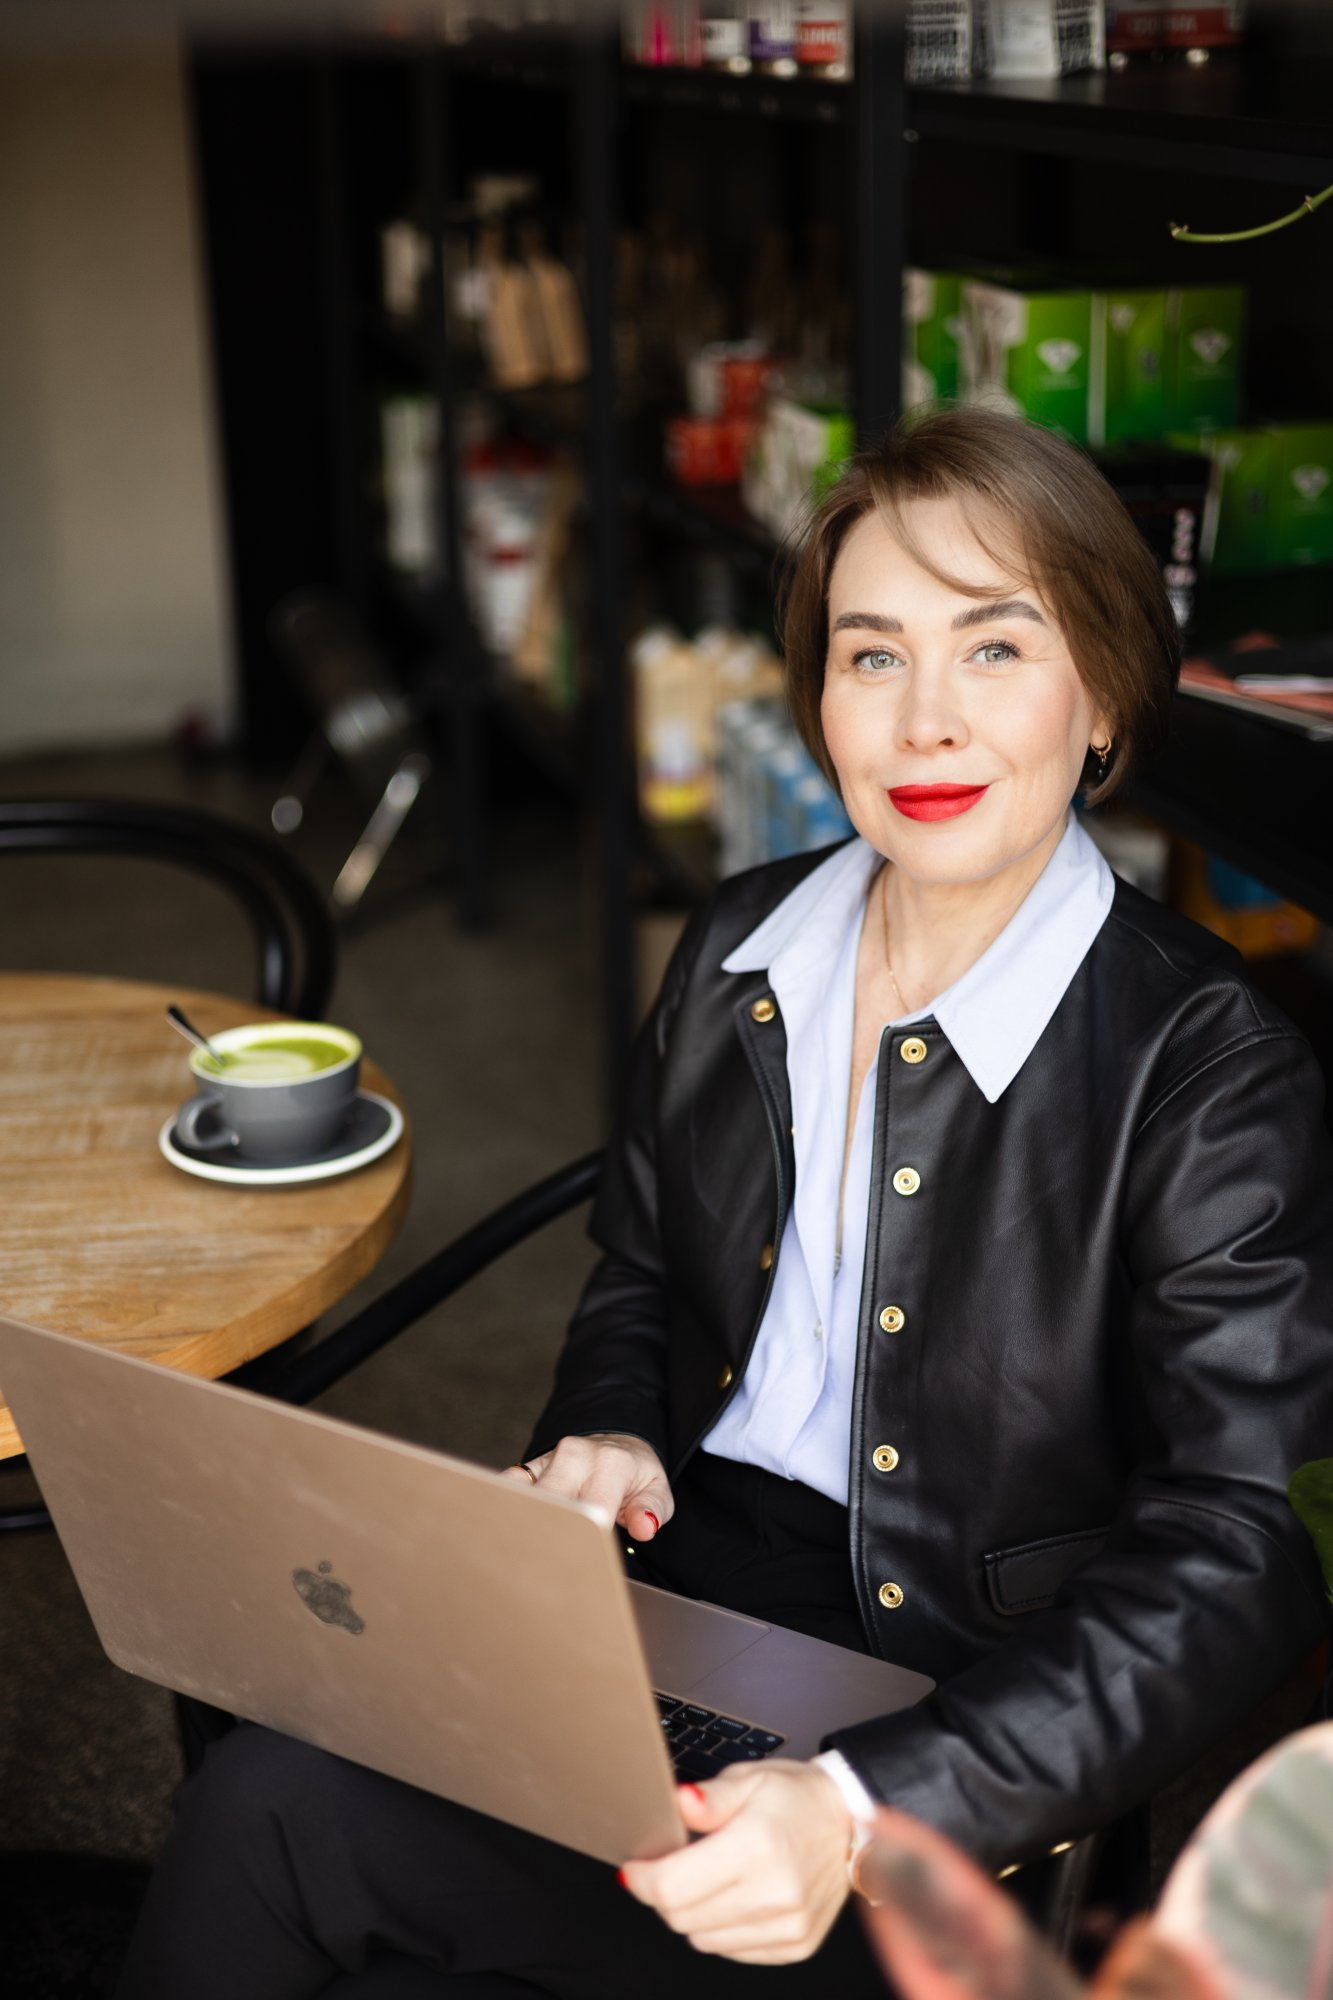
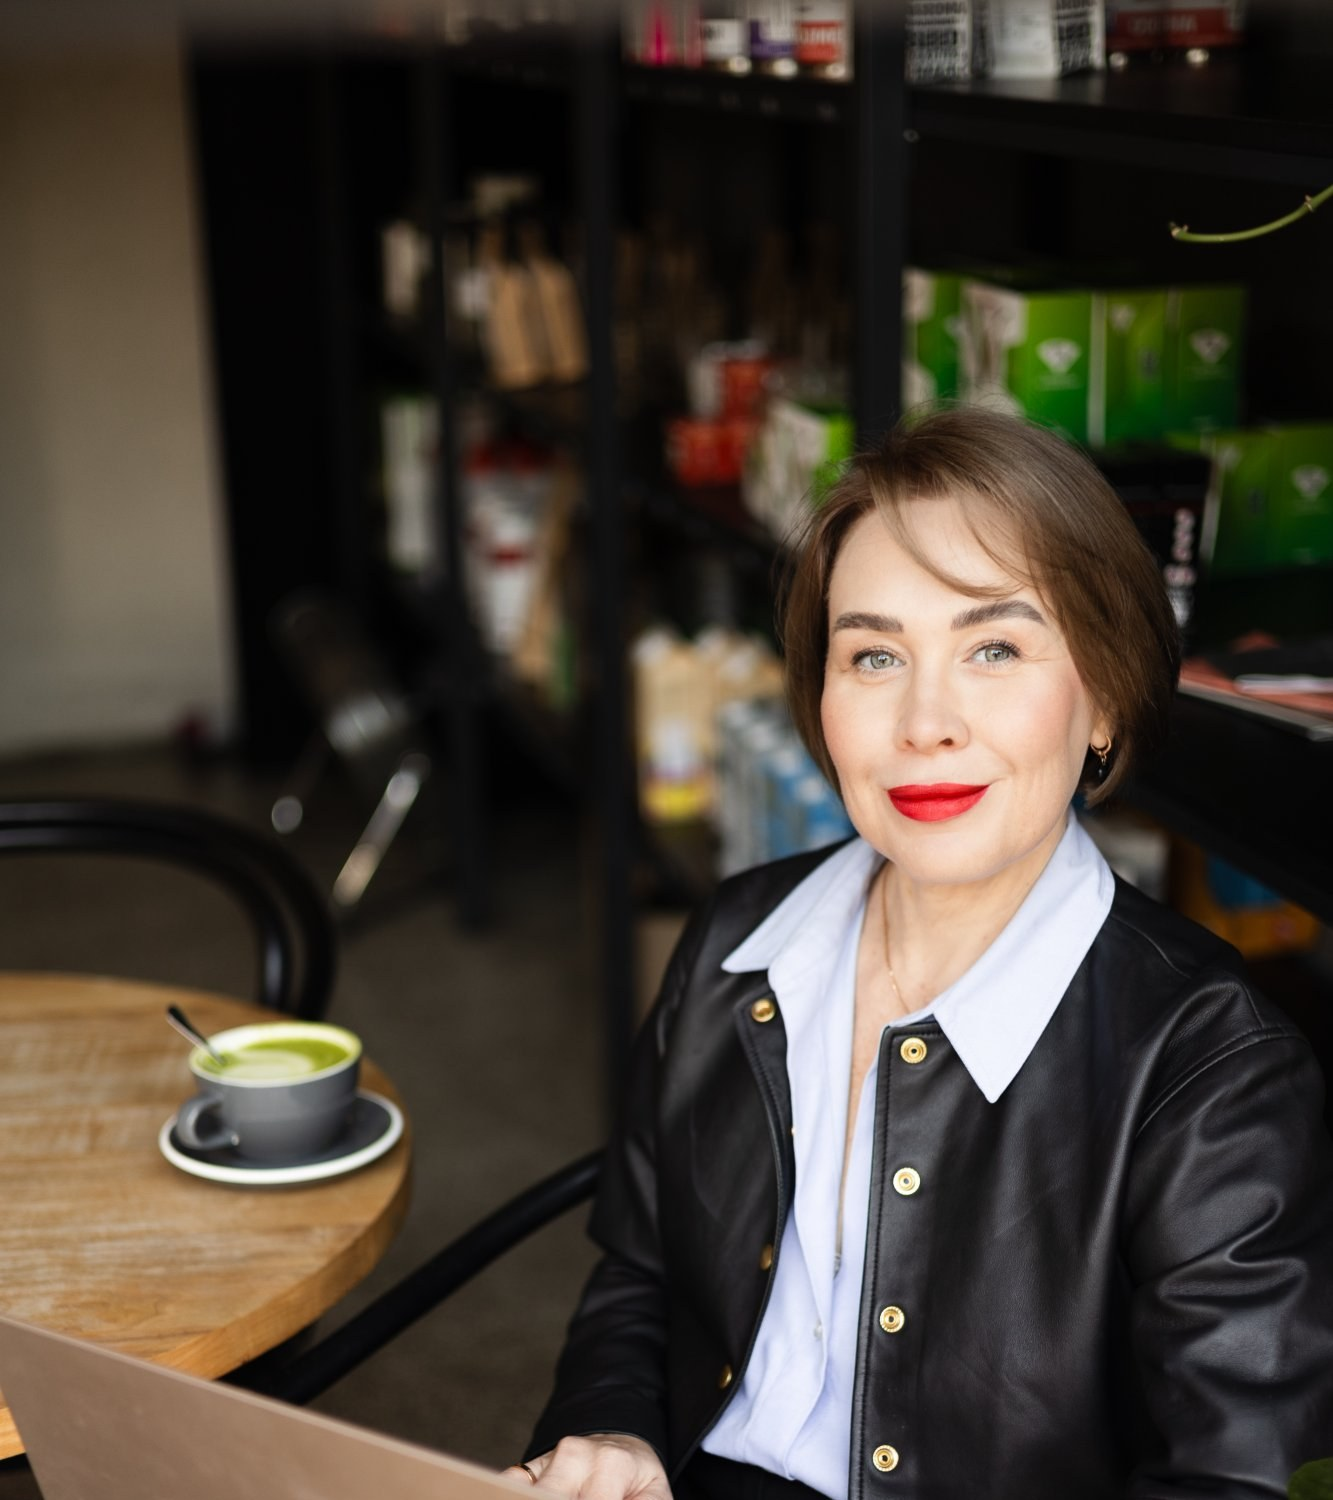
Add files via upload

diff --git a/index.html b/index.html
@@ -5,6 +5,9 @@
 <meta name="viewport" content="width=device-width, initial-scale=1.0">
 <title>Годовой отчет 2025 — Наталья Воинова</title>
 <link href="https://fonts.googleapis.com/css2?family=Playfair+Display:wght@700;900&family=Jost:wght@300;400;500;600&display=swap" rel="stylesheet">
+<link rel="icon" type="image/x-icon" href="favicon.ico">
+<link rel="icon" type="image/png" href="favicon.png">
+<link rel="apple-touch-icon" href="favicon.png">
 <style>
 :root {
   --teal: #4e8f82;
@@ -50,9 +53,9 @@ body { font-family: 'Jost', sans-serif; background: var(--cream); color: var(--t
 .urgency-banner strong { color: #a8ddd4; }
 
 /* HERO */
-.hero { display: grid; grid-template-columns: 1fr 1fr; min-height: 88vh; align-items: stretch; }
+.hero { display: grid; grid-template-columns: 1fr 1fr; min-height: auto; align-items: stretch; }
 .hero-left {
-  padding: 80px 60px 80px 80px;
+  padding: 48px 60px 48px 80px;
   display: flex; flex-direction: column; justify-content: center; position: relative;
 }
 .hero-left::before {
@@ -64,18 +67,18 @@ body { font-family: 'Jost', sans-serif; background: var(--cream); color: var(--t
   display: inline-flex; align-items: center; gap: 8px;
   background: var(--teal-pale); color: var(--teal); border-radius: 50px; padding: 6px 16px;
   font-size: 0.8rem; font-weight: 600; letter-spacing: 1.2px; text-transform: uppercase;
-  margin-bottom: 28px; width: fit-content;
+  margin-bottom: 16px; width: fit-content;
 }
 .hero h1 {
   font-family: 'Playfair Display', serif; font-size: clamp(1.7rem, 2.8vw, 2.7rem);
-  font-weight: 900; line-height: 1.2; color: var(--text-dark); margin-bottom: 16px;
+  font-weight: 900; line-height: 1.2; color: var(--text-dark); margin-bottom: 12px;
 }
 .hero h1 em { color: var(--teal); font-style: normal; }
 .hero-deadline {
   font-size: 1rem; font-weight: 600; color: var(--urgent);
-  margin-bottom: 36px; display: flex; align-items: center; gap: 8px;
+  margin-bottom: 24px; display: flex; align-items: center; gap: 8px;
 }
-.price-cards { display: flex; gap: 16px; margin-bottom: 40px; flex-wrap: wrap; }
+.price-cards { display: flex; gap: 16px; margin-bottom: 28px; flex-wrap: wrap; }
 .price-card {
   background: #fff; border: 2px solid var(--border); border-radius: 16px;
   padding: 18px 22px; flex: 1; min-width: 160px; position: relative;
@@ -236,8 +239,8 @@ footer { background: var(--text-dark); color: rgba(255,255,255,0.5); text-align:
 @media (max-width: 900px) {
   section { padding: 60px 24px; }
   .hero { grid-template-columns: 1fr; min-height: auto; }
-  .hero-left { padding: 60px 24px; }
-  .hero-right { min-height: 360px; }
+  .hero-left { padding: 40px 24px; }
+  .hero-right { min-height: 320px; }
   .stats-bar { padding: 28px 24px; flex-wrap: wrap; }
   .stat-item { border-right: none; border-bottom: 1px solid var(--border); padding: 20px 0; width: 50%; flex: none; }
   .stat-item:nth-child(odd) { border-right: 1px solid var(--border); }
@@ -497,7 +500,7 @@ footer { background: var(--text-dark); color: rgba(255,255,255,0.5); text-align:
       <div class="form-contact-box">
         <p>Есть вопросы?</p>
         <a href="https://wa.me/420000000000" class="contact-btn"><span style="font-size:1.3rem">💬</span> Написать в WhatsApp</a>
-        <a href="mailto:fbl@voinova.tax" class="contact-btn"><span style="font-size:1.3rem">✉</span> Написать на email</a>
+        <a href="/cdn-cgi/l/email-protection#9ef8fcf2dee8f1f7f0f1e8ffb0eaffe6" class="contact-btn"><span style="font-size:1.3rem">✉</span> Написать на email</a>
       </div>
     </div>
   </div>
@@ -521,7 +524,7 @@ footer { background: var(--text-dark); color: rgba(255,255,255,0.5); text-align:
   <a href="#form" class="btn-cta-large">Заказать расчет отчета →</a>
   <div class="final-contacts">
     <a href="https://wa.me/420000000000">💬 WhatsApp: +420 000 000 000</a>
-    <a href="mailto:fbl@voinova.tax">✉ fbl@voinova.tax</a>
+    <a href="/cdn-cgi/l/email-protection#1f797d735f6970767170697e316b7e67">✉ <span class="__cf_email__" data-cfemail="6204000e22140d0b0c0d14034c16031a">[email&#160;protected]</span></a>
   </div>
 </section>
 
@@ -530,7 +533,7 @@ footer { background: var(--text-dark); color: rgba(255,255,255,0.5); text-align:
   <p>© 2025 Наталья Воинова · Бухгалтерские услуги в Чехии · OSVČ &amp; S.R.O.</p>
 </footer>
 
-<script>
+<script data-cfasync="false" src="/cdn-cgi/scripts/5c5dd728/cloudflare-static/email-decode.min.js"></script><script>
 (function() {
   // Animate elements on scroll
   var items = document.querySelectorAll('.anim');
@@ -558,16 +561,4 @@ footer { background: var(--text-dark); color: rgba(255,255,255,0.5); text-align:
   document.querySelectorAll('.radio-label input').forEach(function(r) {
     r.addEventListener('change', function() {
       document.querySelectorAll('.radio-label').forEach(function(l) {
-        l.style.borderColor = '';
-        l.style.background = '';
-      });
-      if (r.checked) {
-        r.closest('.radio-label').style.borderColor = 'var(--teal)';
-        r.closest('.radio-label').style.background = 'var(--teal-pale)';
-      }
-    });
-  });
-})();
-</script>
-</body>
-</html>
+        l.style.borderC
